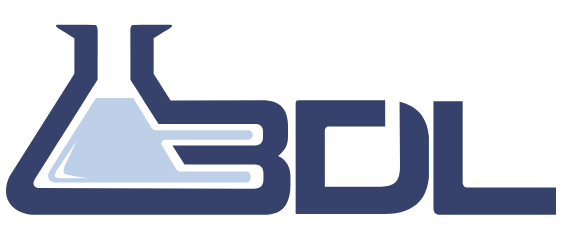
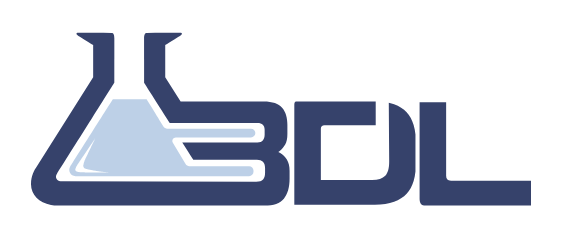
Rename more sections Replace pictures Reposition version string

Changed region(s): [[0.0, 0.0879, 0.9982, 0.9079]]

diff --git a/src/slic3r/GUI/AboutDialog.cpp b/src/slic3r/GUI/AboutDialog.cpp
@@ -151,7 +151,7 @@ wxString CopyrightsDialog::get_html_text()
         _L("License"),
         _L("3DLabs Studio is licensed under "),
         "https://www.gnu.org/licenses/agpl-3.0.html",_L("GNU Affero General Public License, version 3"),
-        _L("Bambu Studio is based on PrusaSlicer by Prusa Research, which is from Slic3r by Alessandro Ranellucci and the RepRap community"),
+        _L("3DLabs Studio is based on Bambu Studio by Bambu Labs, PrusaSlicer by Prusa Research, which is from Slic3r by Alessandro Ranellucci and the RepRap community"),
         _L("Libraries"),
         _L("This software uses open source components whose copyright and other proprietary rights belong to their respective owners"));
 
@@ -241,26 +241,6 @@ AboutDialog::AboutDialog()
 
     panel_versizer->Add(m_logo, 1, wxALL | wxEXPAND, 0);
 
-    // version
-    {
-        vesizer->Add(0, FromDIP(165), 1, wxEXPAND, FromDIP(5));
-
-        auto version_string = _L("Version") + " " + std::string(SoftFever_VERSION);
-        wxStaticText* version = new wxStaticText(this, wxID_ANY, version_string.c_str(), wxDefaultPosition, wxDefaultSize);
-	wxFont version_font = GetFont();
-        #ifdef __WXMSW__
-        version_font.SetPointSize(version_font.GetPointSize()-1);
-        #else
-            version_font.SetPointSize(11);
-        #endif
-        version_font.SetPointSize(FromDIP(16));
-        version->SetFont(version_font);
-        version->SetForegroundColour(wxColour(255, 255, 255));
-        version->SetBackgroundColour(wxColour(72, 94, 112));
-        vesizer->Add(version, 0, wxALL | wxALIGN_CENTER_HORIZONTAL, FromDIP(5));
-        vesizer->Add(0, 0, 1, wxEXPAND, FromDIP(5));
-    }
-
     wxBoxSizer *text_sizer_horiz = new wxBoxSizer(wxHORIZONTAL);
     wxBoxSizer *text_sizer = new wxBoxSizer(wxVERTICAL);
     text_sizer_horiz->Add( 0, 0, 0, wxLEFT, FromDIP(23));
@@ -312,9 +292,47 @@ AboutDialog::AboutDialog()
     copyright_hor_sizer->Add(copyright_ver_sizer, 0, wxALL,5);
     copyright_hor_sizer->Add( 0, 0, 0, wxLEFT, FromDIP(120));
 
+    // version
+    /*
+    {
+        vesizer->Add(0, FromDIP(165), 1, wxEXPAND, FromDIP(5));
+
+        auto version_string = _L("Version") + " " + std::string(SoftFever_VERSION);
+        wxStaticText* version = new wxStaticText(this, wxID_ANY, version_string.c_str(), wxDefaultPosition, wxDefaultSize);
+        wxFont version_font = GetFont();
+        #ifdef __WXMSW__
+        version_font.SetPointSize(version_font.GetPointSize()-1);
+        #else
+            version_font.SetPointSize(11);
+        #endif
+        version_font.SetPointSize(FromDIP(16));
+        version->SetFont(version_font);
+        version->SetForegroundColour(wxColour(72, 94, 112));
+        version->SetBackgroundColour(wxColour(255, 255, 255));
+        vesizer->Add(version, 0, wxALL | wxALIGN_CENTER_HORIZONTAL | wxALIGN_BOTTOM, FromDIP(5));
+        vesizer->Add(0, 0, 1, wxEXPAND, FromDIP(5));
+    }
+    */
+
+    // 3DL
+    // Rearrange version text position and appearance
+    auto version_string = _L("Version") + " " + std::string(SoftFever_VERSION);
+    wxStaticText *version_text = new wxStaticText(this, wxID_ANY, version_string.c_str(), wxDefaultPosition, wxDefaultSize);
+    wxFont version_font = GetFont();
+    #ifdef __WXMSW__
+    version_font.SetPointSize(version_font.GetPointSize()-1);
+    #else
+        version_font.SetPointSize(11);
+    #endif
+    version_font.SetPointSize(FromDIP(10));
+    version_text->SetFont(version_font);
+    version_text->SetForegroundColour(wxColour(107, 107, 107));
+
     wxStaticText *html_text = new wxStaticText(this, wxID_ANY, "Copyright(C) 2021-2023 3D Laboratories LLC", wxDefaultPosition, wxDefaultSize);
+    
     html_text->SetForegroundColour(wxColour(107, 107, 107));
 
+    copyright_ver_sizer->Add(version_text, 0, wxALL , 0);
     copyright_ver_sizer->Add(html_text, 0, wxALL , 0);
 
     m_html = new wxHtmlWindow(this, wxID_ANY, wxDefaultPosition, wxDefaultSize, wxHW_SCROLLBAR_NEVER /*NEVER*/);

diff --git a/src/slic3r/GUI/GUI_App.cpp b/src/slic3r/GUI/GUI_App.cpp
@@ -281,20 +281,22 @@ public:
         memDc.DrawLabel(m_constant_text.version, version_rect, wxALIGN_LEFT | wxALIGN_BOTTOM);
 
 // #if BBL_INTERNAL_TESTING
-        auto sf_version = wxString::Format("SoftFever %s",std::string(SoftFever_VERSION)).ToStdString();
+        /* 
+	auto sf_version = wxString::Format("SoftFever %s",std::string(SoftFever_VERSION)).ToStdString();
         wxSize text_rect = memDc.GetTextExtent(sf_version);
         int start_x = (title_rect.GetLeft() + version_rect.GetRight()) / 2 - text_rect.GetWidth();
         int start_y = version_rect.GetBottom() + 10;
         wxRect internal_sign_rect(wxPoint(start_x, start_y), wxSize(text_rect));
         memDc.SetFont(m_constant_text.version_font);
         memDc.DrawLabel(sf_version, internal_sign_rect, wxALIGN_CENTER);
-// #endif
+	*/
+	// #endif
 
         // load bitmap for logo
         BitmapCache bmp_cache;
         int logo_margin = FromDIP(72 * m_scale);
         int logo_size = FromDIP(122 * m_scale);
-        wxBitmap logo_bmp = *bmp_cache.load_svg("splash_logo", logo_size, logo_size);
+        wxBitmap logo_bmp = *bmp_cache.load_svg("3dlabs/splash_logo", logo_size, logo_size);
         int logo_y = top_margin + title_rect.GetHeight() + logo_margin;
         memDc.DrawBitmap(logo_bmp, (width - logo_size) / 2, logo_y, true);
 
@@ -2131,7 +2133,7 @@ bool GUI_App::on_init_inner()
                /* wxString tips = wxString::Format(_L("Click to download new version in default browser: %s"), version_info.version_str);
                 DownloadDialog dialog(this->mainframe,
                     tips,
-                    _L("New version of Bambu Studio"),
+                    _L("New version of 3DLabs Studio"),
                     false,
                     wxCENTER | wxICON_INFORMATION);
 
@@ -2179,7 +2181,7 @@ bool GUI_App::on_init_inner()
                 wxString tips = wxString::Format(_L("Click to download new version in default browser: %s"), version_str);
                 DownloadDialog dialog(this->mainframe,
                     tips,
-                    _L("The Bambu Studio needs an upgrade"),
+                    _L("3DLabs Studio needs an upgrade"),
                     false,
                     wxCENTER | wxICON_INFORMATION);
                 dialog.SetExtendedMessage(description_text);
@@ -4178,14 +4180,14 @@ bool GUI_App::load_language(wxString language, bool initial)
 
     if (! wxLocale::IsAvailable(language_info->Language)) {
     	// Loading the language dictionary failed.
-    	wxString message = "Switching Bambu Studio to language " + language_info->CanonicalName + " failed.";
+    	wxString message = "Switching 3DLabs Studio to language " + language_info->CanonicalName + " failed.";
 #if !defined(_WIN32) && !defined(__APPLE__)
         // likely some linux system
         message += "\nYou may need to reconfigure the missing locales, likely by running the \"locale-gen\" and \"dpkg-reconfigure locales\" commands.\n";
 #endif
         if (initial)
         	message + "\n\nApplication will close.";
-        wxMessageBox(message, "Bambu Studio - Switching language failed", wxOK | wxICON_ERROR);
+        wxMessageBox(message, "3DLabs Studio - Switching language failed", wxOK | wxICON_ERROR);
         if (initial)
 			std::exit(EXIT_FAILURE);
 		else

diff --git a/src/slic3r/GUI/GUI_Init.cpp b/src/slic3r/GUI/GUI_Init.cpp
@@ -65,10 +65,10 @@ int GUI_Run(GUI_InitParams &params)
         }
     } catch (const Slic3r::Exception &ex) {
         BOOST_LOG_TRIVIAL(error) << ex.what() << std::endl;
-        wxMessageBox(boost::nowide::widen(ex.what()), _L("Bambu Studio GUI initialization failed"), wxICON_STOP);
+        wxMessageBox(boost::nowide::widen(ex.what()), _L("3DLabs Studio GUI initialization failed"), wxICON_STOP);
     } catch (const std::exception &ex) {
         BOOST_LOG_TRIVIAL(error) << ex.what() << std::endl;
-        wxMessageBox(format_wxstr(_L("Fatal error, exception catched: %1%"), ex.what()), _L("Bambu Studio GUI initialization failed"), wxICON_STOP);
+        wxMessageBox(format_wxstr(_L("Fatal error, exception catched: %1%"), ex.what()), _L("3DLabs Studio GUI initialization failed"), wxICON_STOP);
     }
     // error
     return 1;

diff --git a/src/libslic3r/libslic3r.h b/src/libslic3r/libslic3r.h
@@ -2,10 +2,10 @@
 #define _libslic3r_h_
 
 #include "libslic3r_version.h"
-#define SLIC3R_APP_FULL_NAME "Bambu Studio"
-#define GCODEVIEWER_APP_NAME "BambuStudio G-code Viewer"
-#define GCODEVIEWER_APP_KEY  "BambuStudioGcodeViewer"
-#define GCODEVIEWER_BUILD_ID std::string("BambuStudio G-code Viewer-") + std::string(SLIC3R_VERSION) + std::string("-RC")
+#define SLIC3R_APP_FULL_NAME "3DLabs Studio"
+#define GCODEVIEWER_APP_NAME "3DLabs G-code Viewer"
+#define GCODEVIEWER_APP_KEY  "3DLabsStudioGcodeViewer"
+#define GCODEVIEWER_BUILD_ID std::string("3DLabsStudio G-code Viewer-") + std::string(SLIC3R_VERSION) + std::string("-RC")
 
 // this needs to be included early for MSVC (listing it in Build.PL is not enough)
 #include <memory>

diff --git a/src/slic3r/GUI/ReleaseNote.cpp b/src/slic3r/GUI/ReleaseNote.cpp
@@ -98,7 +98,7 @@ void UpdateVersionDialog::alter_choice(wxCommandEvent& event)
 }
 
 UpdateVersionDialog::UpdateVersionDialog(wxWindow *parent)
-    : DPIDialog(parent, wxID_ANY, _L("New version of Bambu Studio"), wxDefaultPosition, wxDefaultSize, wxCAPTION | wxCLOSE_BOX)
+    : DPIDialog(parent, wxID_ANY, _L("New version of 3DLabs Studio"), wxDefaultPosition, wxDefaultSize, wxCAPTION | wxCLOSE_BOX)
 {
     std::string icon_path = (boost::format("%1%/images/3dlabs/3DLabsStudioTitle.ico") % resources_dir()).str();
     SetIcon(wxIcon(encode_path(icon_path.c_str()), wxBITMAP_TYPE_ICO));

diff --git a/src/slic3r/GUI/SendToPrinter.cpp b/src/slic3r/GUI/SendToPrinter.cpp
@@ -854,7 +854,7 @@ void SendToPrinterDialog::show_status(PrintDialogStatus status, std::vector<wxSt
 		Enable_Refresh_Button(true);
     }
     else if (status == PrintDialogStatus::PrintStatusNotOnTheSameLAN) {
-        wxString msg_text = _L("The printer is required to be in the same LAN as Bambu Studio.");
+        wxString msg_text = _L("The printer is required to be in the same LAN as 3DLabs Studio.");
         update_print_status_msg(msg_text, true, true);
         Enable_Send_Button(false);
         Enable_Refresh_Button(true);

diff --git a/src/slic3r/GUI/Plater.cpp b/src/slic3r/GUI/Plater.cpp
@@ -6750,7 +6750,7 @@ void Plater::priv::bring_instance_forward() const
         BOOST_LOG_TRIVIAL(debug) << "Couldnt bring instance forward - mainframe is null";
         return;
     }
-    BOOST_LOG_TRIVIAL(debug) << "Bambu Studio window going forward";
+    BOOST_LOG_TRIVIAL(debug) << "3DLabs Studio window going forward";
     //this code maximize app window on Fedora
     {
         main_frame->Iconize(false);

diff --git a/src/slic3r/GUI/WebDownPluginDlg.cpp b/src/slic3r/GUI/WebDownPluginDlg.cpp
@@ -31,7 +31,7 @@ using namespace nlohmann;
 
 namespace Slic3r { namespace GUI {
 
-DownPluginFrame::DownPluginFrame(GUI_App *pGUI) : wxDialog((wxWindow *) (pGUI->mainframe), wxID_ANY, "Bambu Studio"), m_appconfig_new()
+DownPluginFrame::DownPluginFrame(GUI_App *pGUI) : wxDialog((wxWindow *) (pGUI->mainframe), wxID_ANY, "3DLabs Studio"), m_appconfig_new()
 {
     // INI
     m_MainPtr = pGUI;
